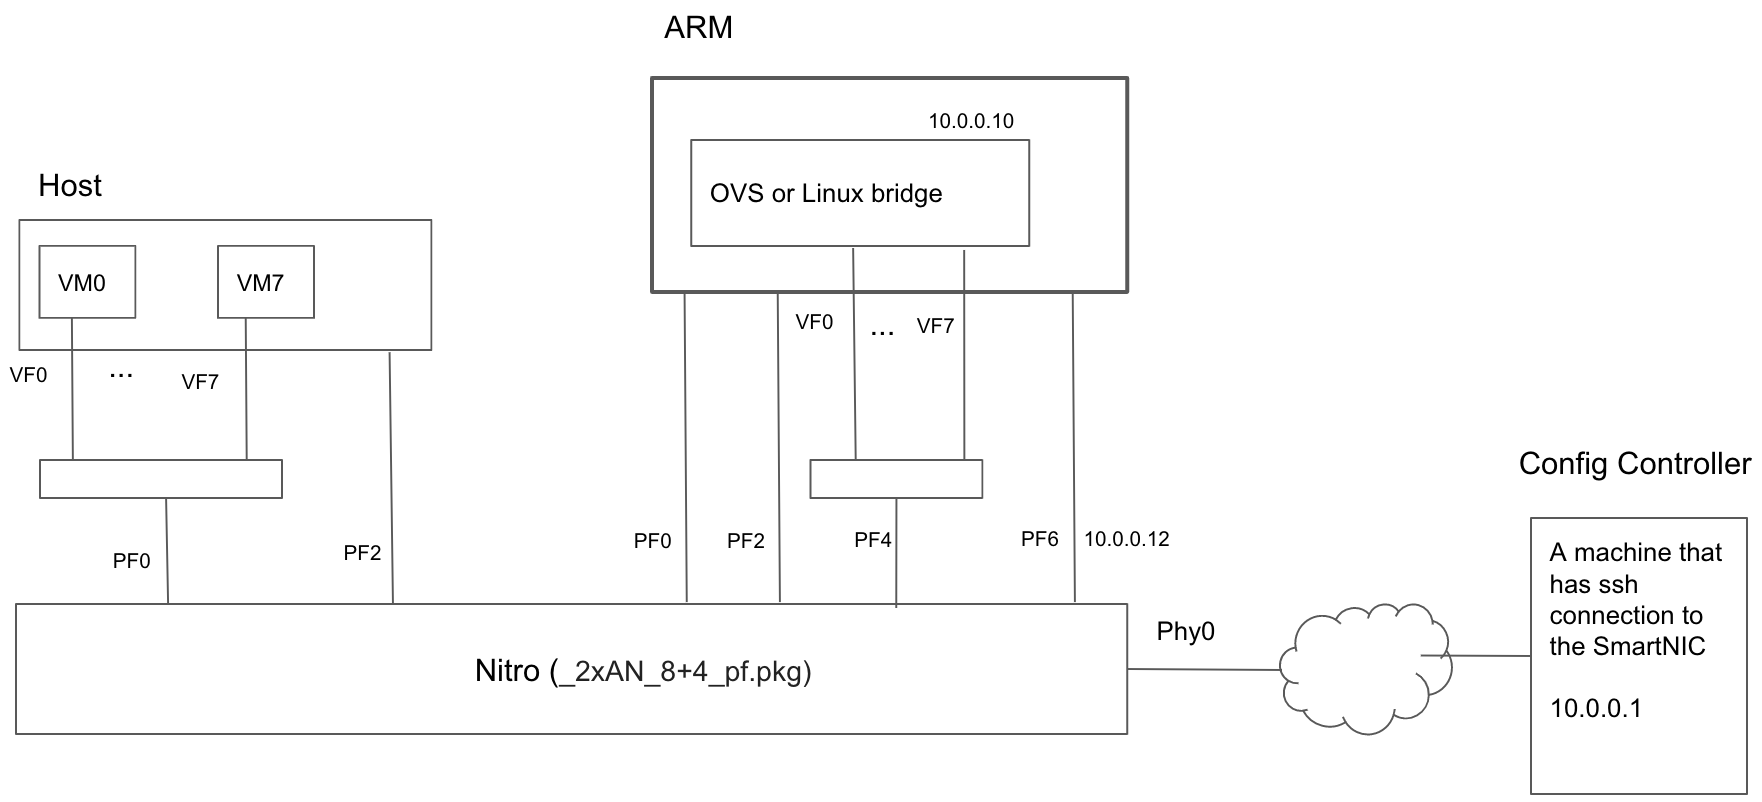
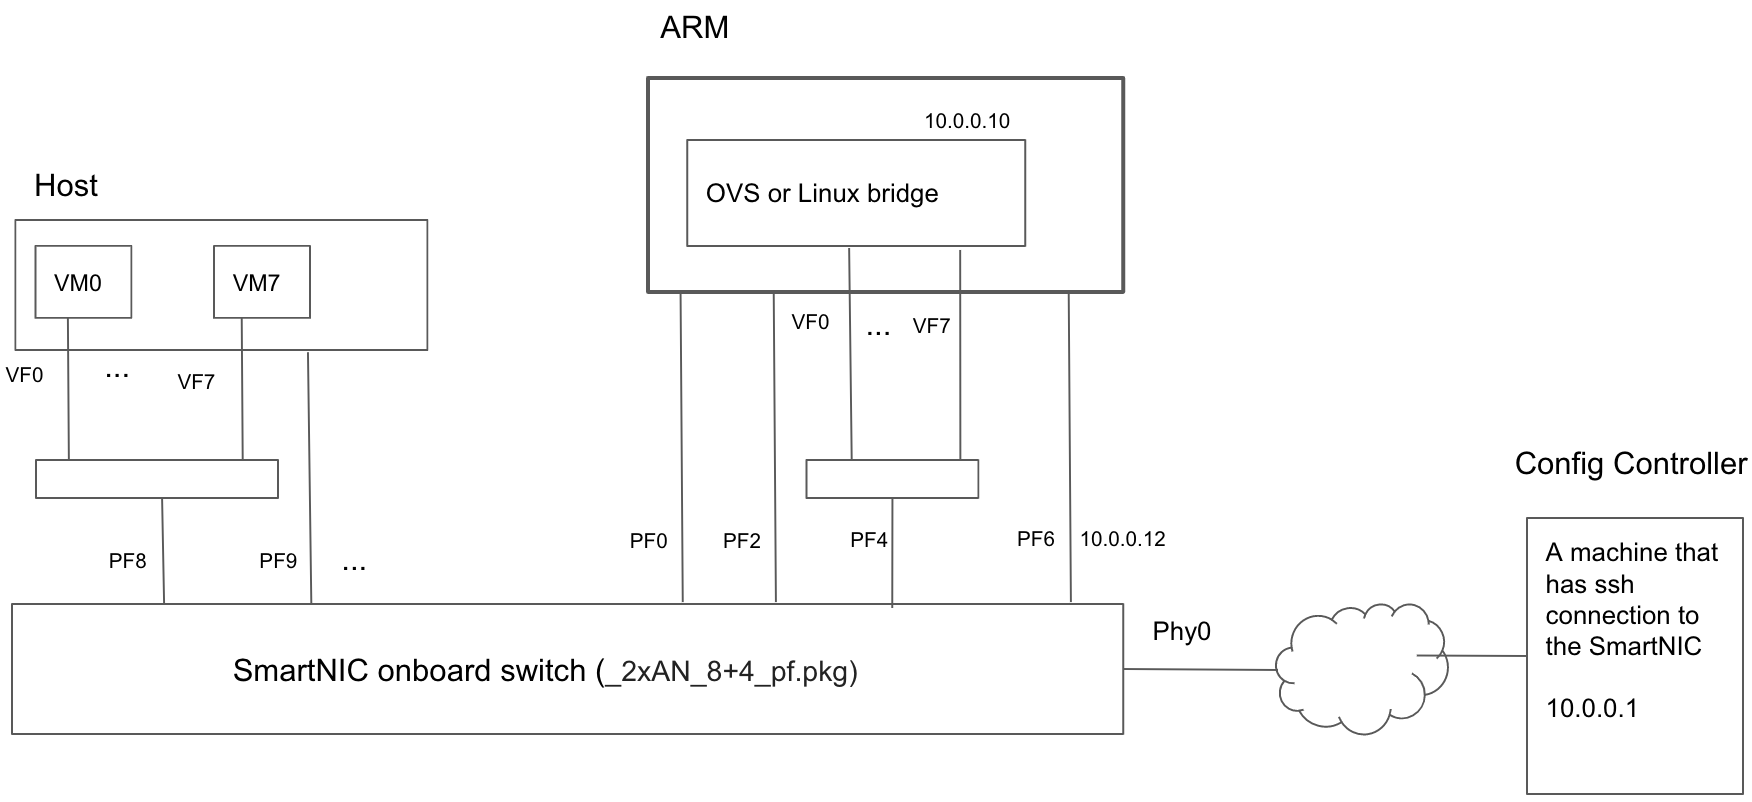
Updated README.md

diff --git a/ovs-offload/README.md b/ovs-offload/README.md
@@ -1,5 +1,5 @@
 ### Introduction
-It is possible to install a stock CentOS Linux distribution on the SmartNIC as described here. Once that is done, a common use-case would be to run an OVS-DPDK or  Linux bridge and use VF-pairs to connect VMs to the bridge. This would offload the bridging function from the host to the SmartNIC. 
+It is possible to install a stock CentOS Linux distribution on the SmartNIC. Once that is done, a common use-case would be to run an OVS-DPDK or  Linux bridge and use VF-pairs to connect VMs to the bridge. This would offload the bridging function from the host to the SmartNIC. 
 
 This document describes the software and scripts to do this in an easy and repeatable manner.
 
@@ -18,9 +18,11 @@ The Stingray device can be configured in different combinations of ARM-side and 
 
 This configuration allows 8 VMs on the host to use 8 VFs which are connected to the bridge running on the SmartNIC. From a functionality perspective, this is no different than if the bridge was running on the host instead of being offloaded to the SmartNIC.
 
+Note that in this configuration, the Host sees 4 PFs and they are numbered from 8 to 11. The ARM sees 8 PFs and they are numbered from 0 to 7.
+
 ### Prerequisites
 #### SmartNIC
-1. The SmartNIC should be running CentOS 7. Instructions on installing CentOS can be found in the Stingray PS225 Quickstart Guide, section 5.2. 
+1. The SmartNIC should be running CentOS 7. Instructions on installing CentOS can be found in the [Stingray PS225 Quickstart Guide](https://github.com/CCX-Stingray/Documentation/blob/master/5880X-PS225-UG1xx.pdf), section 5.2. 
 2. The Nitro configuration on the card should support SR-IOV and VF pairs e.g. `bcm958802a8028_2x25g_8+4_pf.cfg`
 #### Config Controller
 1. Install [Ansible](https://www.ansible.com/) if the system does not have it. You can find installation instructions [here.](https://docs.ansible.com/ansible/latest/installation_guide/intro_installation.html?extIdCarryOver=true&sc_cid=701f2000001OH7YAAW)
